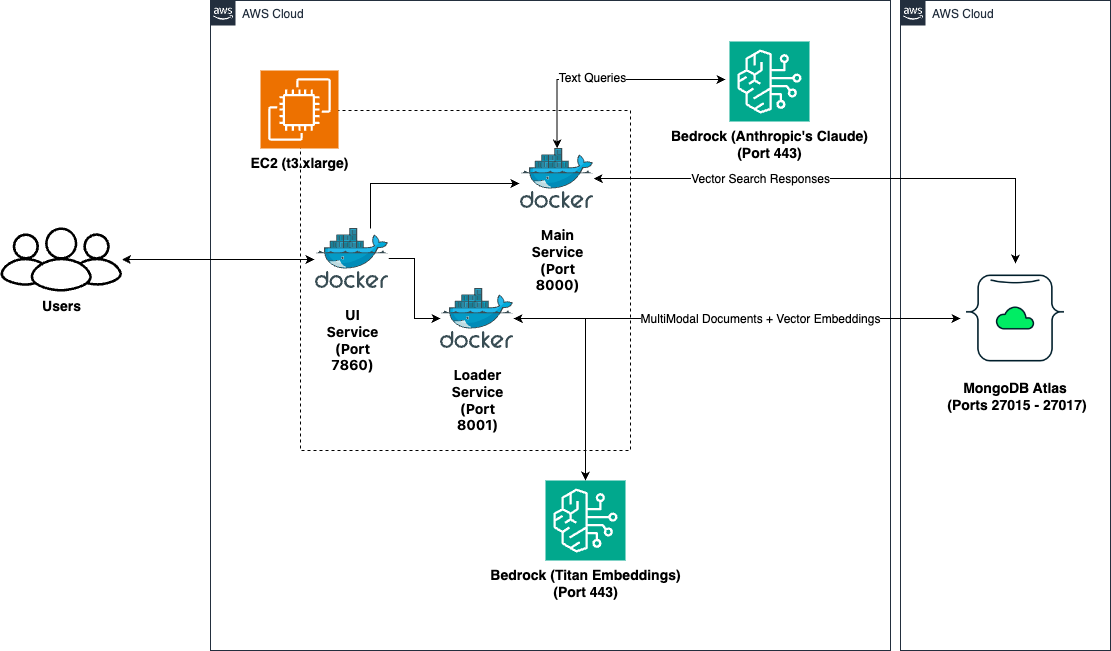
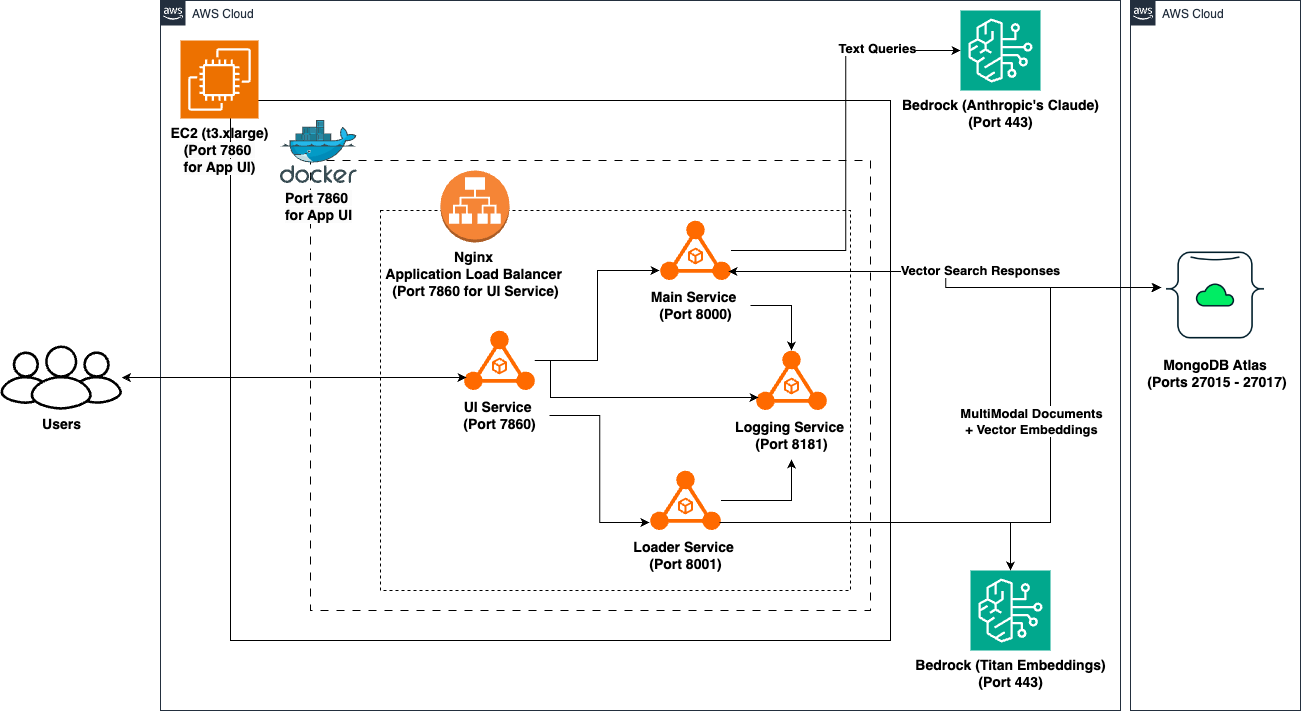
Updated Anthropic QS Documentation.

diff --git a/docs/maap-docs/docs/quick-starts/anthropic.md b/docs/maap-docs/docs/quick-starts/anthropic.md
@@ -2,6 +2,8 @@
 
 MongoDB - Anthropic Quickstart is an integrated end-to-end technology stack that combines MongoDB Atlas capabilities with Anthropic's Claude AI models to create an intelligent Agentic conversational interface. It allows users to interact with MongoDB data sources through natural language queries, leveraging vector search, full-text search, hybrid search and other advanced querying techniques.
 
+[![ReadMe Card](https://github.com/mongodb-partners/maap-anthropic)]
+
 ## Table of Contents
 1. [Overview](#1-overview)
 2. [System Architecture](#2-system-architecture)
@@ -42,15 +44,16 @@ The system architecture consists of the following components:
 1. **Frontend**: A Gradio-based web interface for user interactions.
 2. **Backend Services**:
    - UI Service (Port 7860): Handles user interface and initial request processing.
+   - Main Service (Port 8000): Orchestrates AI interactions and database queries.
    - Loader Service (Port 8001): Manages file uploads and data ingestion.
-   - Main Service (Port 8000/8002): Orchestrates AI interactions and database queries.
+   - Logger Service (Port 8181): Centralized logging service for all components.
 3. **Databases**:
    - MongoDB Atlas: Stores document data, embeddings, and chat history.
 4. **External Services**:
-   - AWS Bedrock: Hosts the Anthropic Claude 3.5 Sonnet AI model.
+   - AWS Bedrock: Hosts the Anthropic Claude AI models.
    - AWS Titan Embeddings: Generates embeddings for vector search.
 
-The system uses Docker for containerization and deployment.
+The system uses Docker for containerization and deployment, with Nginx as a reverse proxy for load balancing.
 
 ![MAAP Application Architecture](assets/anthropic/AnthropicAWSArchitecture.png)
 
@@ -65,6 +68,7 @@ Users interact with the Gradio-based frontend UI, which acts as the entry point 
   - Retrieves relevant information from **MongoDB Atlas** using vector or full-text search.  
   - Handles AI-specific queries by interacting with **AWS Bedrock**, specifically leveraging **Claude AI** for language understanding and generation.  
   - Utilizes **AWS Titan Embeddings** for embedding generation when necessary.  
+  - The **Logger Service** provides centralized logging for all components, ensuring comprehensive system monitoring and troubleshooting capabilities.
 
 This system ensures a seamless user experience and leverages advanced AI models for robust query handling and content processing.
 
@@ -86,7 +90,7 @@ This system is composed of several key components:
 - **Technologies**: FastAPI, LangChain, Python
 - **Key Files**:
   - `main/app/server.py`: FastAPI application implementing the main service logic
-  - `main/MongoDBAtlasRetrieverTools.py`: Custom tools for querying MongoDB
+  - `main/mongodb_atlas_retriever_tools.py`: Custom tools for querying MongoDB
   - `main/Dockerfile`: Defines the container for the main service
 
 ### Loader Service
@@ -96,6 +100,19 @@ This system is composed of several key components:
   - `loader/main.py`: FastAPI application for handling uploads
   - `loader/loader.py`: Functions for processing different types of data
   - `loader/Dockerfile`: Defines the container for the loader service
+
+#### Logger Service
+- **Purpose**: Centralized logging service for all components
+- **Technologies**: FastAPI, MongoDB, Python
+- **Key Files**:
+  - `logger/main.py`: FastAPI application for handling log messages
+  - `logger/Dockerfile`: Defines the container for the logger service
+
+#### Nginx Service
+- **Purpose**: Load balancer for the application services
+- **Technologies**: Nginx
+- **Key Files**:
+  - `nginx/Dockerfile`: Defines the container for the Nginx service
 
 ### MongoDB Atlas
 - **Purpose**: Provides scalable data storage and vector search capabilities
@@ -310,6 +327,13 @@ Example vector index configuration:
 3. **UI Service**:
    - The interface layout and components are configured in `main.py` using Gradio's UI building functions.
 
+4. **Logger Service**:
+   - Log retention and flush intervals can be configured in `logger/main.py`.
+   - MongoDB connection details for log storage are set in the environment variables.
+
+5. **Nginx Service**:
+   - Load balancing configuration can be adjusted in the `nginx/nginx.conf` file.
+
 ## 6. Usage
 
 1. Open the application in a web browser at `http://<ec2-instance-ip>:7860`.
@@ -385,6 +409,17 @@ Example usage:
 # Query example
 curl -X POST "http://localhost:8000/rag" -H "Content-Type: application/json" -d '{"query": "Tell me about India", "userId": "user123"}'
 ```
+
+### Logger Service API
+- Endpoint: `/log`
+- Method: POST
+- Request Body:
+  ```json
+  {
+    "level": "INFO",
+    "message": "Log message here",
+    "app_name": "ServiceName"
+  }
 
 
 ## 8. Security Considerations
@@ -485,7 +520,10 @@ By implementing these configurations and best practices, you can enhance the sec
 - One-click script logs: `./logs/one-click-deployment.log`
 - EC2 live logs: `./logs/ec2-live-logs.log`
 - Docker logs: Accessible via `docker logs`
-- The loader service has logs in the `applogs` folder
+- The services have logs in the `logs` folder
+- Centralized logging is implemented using the Logger Service
+- Application logs are stored in MongoDB for easy querying and analysis
+- Log rotation and retention policies are configurable in the Logger Service
 
 ### Monitoring
 - Use MongoDB Atlas monitoring tools to track database performance.
@@ -507,7 +545,7 @@ By implementing these configurations and best practices, you can enhance the sec
 3. Database Connection Errors
 4. File Uploads Fail
 5. Slow Responses
-
+ 
 ### Debugging
 - Use `docker logs <container_id>` to inspect logs for any specific container.
 
@@ -525,14 +563,27 @@ MAAP-Python/
 ├── main/
 │   ├── app/
 │   │   ├── server.py
-│   │   └── requirements.txt
+│   │   ├── mongodb_atlas_retriever_tools.py
+│   │   ├── models.py
+│   │   └── logger.py
 │   └── Dockerfile
 ├── loader/
 │   ├── main.py
+│   ├── loader.py
+│   ├── utils.py
+│   ├── logger.py
 │   └── Dockerfile
 ├── ui/
 │   ├── main.py
+│   ├── images.py
+│   ├── logger.py
 │   └── Dockerfile
+├── logger/
+│   ├── main.py
+│   └── Dockerfile
+├── nginx/
+│   ├── Dockerfile
+│   └── nginx.conf
 └── docker-compose.yml
 ```
 

diff --git a/docs/maap-docs/docs/quick-starts/arcee.md b/docs/maap-docs/docs/quick-starts/arcee.md
@@ -2,6 +2,8 @@
 
 The MongoDB - Arcee Quickstart is a project aimed at facilitating the rapid and straightforward deployment of AI-driven applications utilizing MongoDB Atlas and the Arcee models. It offers scripts and configurations to streamline and automate the setup process, integrating MongoDB Atlas for data storage and Arcee models for AI functionalities.
 
+[![ReadMe Card](https://github.com/mongodb-partners/maap-arcee)]
+
 ## Table of Contents
 1. [Overview](#1-overview)
 2. [System Architecture](#2-system-architecture)
